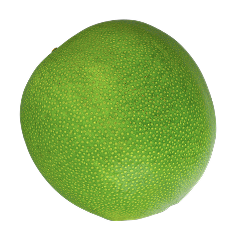
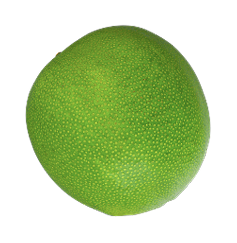
adding lemon trail

Changed region(s): [[0.0591, 0.0576, 0.9156, 0.9218]]

diff --git a/src/components/Utils/Animations/LemonTrail.tsx b/src/components/Utils/Animations/LemonTrail.tsx
@@ -1,0 +1,156 @@
+'use client'
+
+// libraries
+import { useEffect, useRef } from 'react'
+import { gsap } from 'gsap'
+
+// lemon images
+import lemon1 from '@/assets/img/lemon-1.png'
+import lemon2 from '@/assets/img/lemon-2.png'
+import lemon3 from '@/assets/img/lemon-3.png'
+import lemon4 from '@/assets/img/lemon-4.png'
+import lemon5 from '@/assets/img/lemon-5.png'
+
+const LEMONS = [lemon1.src, lemon2.src, lemon3.src, lemon4.src, lemon5.src]
+
+interface LemonTrailProps extends React.HTMLAttributes<HTMLElement> {
+	as?: React.ElementType
+}
+
+function useLemonTrail(containerRef: React.RefObject<HTMLElement | null>) {
+	useEffect(() => {
+		const container = containerRef.current
+		if (!container) return
+
+		const root: HTMLElement = container
+
+		let incr = 0
+		let oldIncrX = 0
+		let oldIncrY = 0
+		let firstMove = true
+		let indexImg = 0
+
+		const isCoarsePointer = window.matchMedia('(hover: none)').matches
+		const resetDist = window.innerWidth / (isCoarsePointer ? 4 : 5)
+
+		function createLemon(x: number, y: number, deltaX: number, deltaY: number) {
+			const H = root.offsetHeight
+			if (y > H - 100) return
+
+			const img = document.createElement('img')
+			img.src = LEMONS[indexImg]
+			img.style.cssText = 'top:0;left:0;width:15vw;height:15vw;position:absolute;object-fit:contain;z-index:20;pointer-events:none;'
+			root.appendChild(img)
+
+			const tl = gsap.timeline({
+				onComplete: () => {
+					root.removeChild(img)
+					tl.kill()
+				}
+			})
+
+			tl.fromTo(img, {
+				xPercent: -50 + (Math.random() - 0.5) * 80,
+				yPercent: -50 + (Math.random() - 0.5) * 10,
+				rotation: (Math.random() - 0.5) * 20
+			}, {
+				ease: 'elastic.out(2, 0.6)',
+				duration: 0.5
+			})
+
+			tl.fromTo(img, { x }, {
+				x: '+=' + deltaX * 2,
+				rotation: 0,
+				ease: 'power1.in',
+				duration: 0.5
+			}, '<')
+
+			tl.fromTo(img, { y }, {
+				y: '+=' + (H - y),
+				scale: 0.9,
+				yPercent: -95,
+				ease: 'back.in(1.1)',
+				duration: 0.5
+			}, '<')
+
+			tl.to(img, {
+				x: '+=' + deltaX * 1.6,
+				rotation: (Math.random() - 0.5) * 40,
+				ease: 'power1.in',
+				duration: 0.4
+			})
+
+			tl.to(img, {
+				yPercent: 150,
+				ease: 'back.in(' + (1.5 + (1 - y / H)) + ')',
+				duration: 0.4
+			}, '<')
+
+			indexImg = (indexImg + 1) % LEMONS.length
+		}
+
+		function applyMove(clientX: number, clientY: number) {
+			const rect = root.getBoundingClientRect()
+
+			if (firstMove) {
+				firstMove = false
+				oldIncrX = clientX
+				oldIncrY = clientY
+				return
+			}
+
+			incr += Math.abs(clientX - oldIncrX) + Math.abs(clientY - oldIncrY)
+
+			if (incr > resetDist) {
+				incr = 0
+				createLemon(
+					clientX - rect.left,
+					clientY - rect.top,
+					clientX - oldIncrX,
+					clientY - oldIncrY
+				)
+			}
+
+			oldIncrX = clientX
+			oldIncrY = clientY
+		}
+
+		const onMouseMove = (e: MouseEvent) => applyMove(e.clientX, e.clientY)
+		const onTouchMove = (e: TouchEvent) => {
+			if (e.touches?.[0]) applyMove(e.touches[0].clientX, e.touches[0].clientY)
+		}
+
+		root.addEventListener('mousemove', onMouseMove)
+		root.addEventListener('touchstart', onTouchMove, { passive: true })
+		root.addEventListener('touchmove', onTouchMove, { passive: true })
+
+		return () => {
+			root.removeEventListener('mousemove', onMouseMove)
+			root.removeEventListener('touchstart', onTouchMove)
+			root.removeEventListener('touchmove', onTouchMove)
+		}
+	}, [containerRef])
+}
+
+const LemonTrail = function LemonTrail({
+	as: Tag = 'div',
+	className,
+	children,
+	...props
+}: LemonTrailProps) {
+	const containerRef = useRef<HTMLElement>(null)
+
+	useLemonTrail(containerRef)
+
+	return (
+		<Tag
+			ref={containerRef}
+			className={className}
+			{...props}
+		>
+			{children}
+		</Tag>
+	)
+}
+export default LemonTrail
+

diff --git a/src/components/Footer/index.tsx b/src/components/Footer/index.tsx
@@ -1,141 +1,23 @@
 'use client'
 
 // libraries
-import { useEffect, useRef } from 'react'
 import { Link } from 'next-transition-router'
-import Image from 'next/image'
 import { usePathname } from 'next/navigation'
 import { gsap } from 'gsap'
 
 // components
 import MagneticButton from '@/components/Utils/Animations/MagneticButton'
+import LemonTrail from '@/components/Utils/Animations/LemonTrail'
 import Logo from '@/components/Svg/Logo'
 
 // utils
-import { contact, pages, social } from '@/utils/routes'
+import { pages, social } from '@/utils/routes'
 import { getYear } from '@/utils/functions'
-
-// lemon images
-import lemon1 from '@/assets/img/lemon-1.png'
-import lemon2 from '@/assets/img/lemon-2.png'
-import lemon3 from '@/assets/img/lemon-3.png'
-import lemon4 from '@/assets/img/lemon-4.png'
-import lemon5 from '@/assets/img/lemon-5.png'
-
-const LEMONS = [lemon1.src, lemon2.src, lemon3.src, lemon4.src, lemon5.src]
 
 export default function Footer() {
 
-	const footerRef = useRef<HTMLElement>(null)
 	const pathname = usePathname()
 	const year = getYear(new Date().getFullYear().toString())
-
-	useEffect(() => {
-		const root = footerRef.current
-		if (!root) return
-
-		let incr = 0, oldIncrX = 0, oldIncrY = 0, firstMove = true, indexImg = 0
-
-		const isCoarsePointer = window.matchMedia('(hover: none)').matches
-		const resetDist = window.innerWidth / (isCoarsePointer ? 6 : 8)
-
-		function applyMove(clientX: number, clientY: number) {
-			const rect = root!.getBoundingClientRect()
-
-			if (firstMove) {
-				firstMove = false
-				oldIncrX = clientX
-				oldIncrY = clientY
-				return
-			}
-
-			incr += Math.abs(clientX - oldIncrX) + Math.abs(clientY - oldIncrY)
-
-			if (incr > resetDist) {
-				incr = 0
-				createLemon(
-					clientX - rect.left,
-					clientY - rect.top,
-					clientX - oldIncrX,
-					clientY - oldIncrY
-				)
-			}
-
-			oldIncrX = clientX
-			oldIncrY = clientY
-		}
-
-		function createLemon(x: number, y: number, deltaX: number, deltaY: number) {
-			const H = root!.offsetHeight
-			if (y > H - 100) return
-
-			const img = document.createElement('img')
-			img.src = LEMONS[indexImg]
-			img.style.cssText = 'width:12vw;height:12vw;min-width:70px;min-height:70px;position:absolute;object-fit:contain;z-index:20;pointer-events:none;'
-			root!.appendChild(img)
-
-			const tl = gsap.timeline({
-				onComplete: () => { root!.removeChild(img); tl.kill() }
-			})
-
-			tl.fromTo(img, {
-				xPercent: -50 + (Math.random() - 0.5) * 80,
-				yPercent: -50 + (Math.random() - 0.5) * 10,
-				scaleX: 1.3,
-				scaleY: 1.3,
-				rotation: (Math.random() - 0.5) * 20
-			}, {
-				scaleX: 1,
-				scaleY: 1,
-				ease: 'elastic.out(2, 0.6)',
-				duration: 0.4
-			})
-
-			tl.fromTo(img, { x }, {
-				x: '+=' + deltaX * 2,
-				rotation: 0,
-				ease: 'power1.in',
-				duration: 0.4
-			}, '<')
-
-			tl.fromTo(img, { y }, {
-				y: '+=' + (H - y),
-				scale: 0.9,
-				yPercent: -95,
-				ease: 'back.in(1.1)',
-				duration: 0.4
-			}, '<')
-
-			tl.to(img, {
-				x: '+=' + deltaX * 1.6,
-				rotation: (Math.random() - 0.5) * 40,
-				ease: 'power1.in',
-				duration: 0.3
-			})
-			tl.to(img, {
-				yPercent: 150,
-				ease: 'back.in(' + (1.5 + (1 - y / H)) + ')',
-				duration: 0.3
-			}, '<')
-
-			indexImg = (indexImg + 1) % LEMONS.length
-		}
-
-		const onMouseMove = (e: MouseEvent) => applyMove(e.clientX, e.clientY)
-		const onTouchMove = (e: TouchEvent) => {
-			if (e.touches?.[0]) applyMove(e.touches[0].clientX, e.touches[0].clientY)
-		}
-
-		root.addEventListener('mousemove', onMouseMove)
-		root.addEventListener('touchstart', onTouchMove, { passive: true })
-		root.addEventListener('touchmove', onTouchMove, { passive: true })
-
-		return () => {
-			root.removeEventListener('mousemove', onMouseMove)
-			root.removeEventListener('touchstart', onTouchMove)
-			root.removeEventListener('touchmove', onTouchMove)
-		}
-	}, [])
 
 	const scrollToTop = (e: React.MouseEvent<HTMLAnchorElement>) => {
 		e.preventDefault()
@@ -166,8 +48,8 @@ export default function Footer() {
 	}
 
 	return (
-		<footer
-			ref={footerRef}
+		<LemonTrail
+			as='footer'
 			className='bg-green-dark rounded-tl-2xl rounded-tr-2xl sm:rounded-tl-4xl sm:rounded-tr-4xl md:rounded-tl-[3rem] md:rounded-tr-[3rem] -mt-4 sm:-mt-8 md:-mt-12 relative z-10 text-green-light overflow-hidden'
 			data-main-footer
 		>
@@ -297,6 +179,6 @@ export default function Footer() {
 
 				</div>
 			</div>
-		</footer>
+		</LemonTrail>
 	)
 }